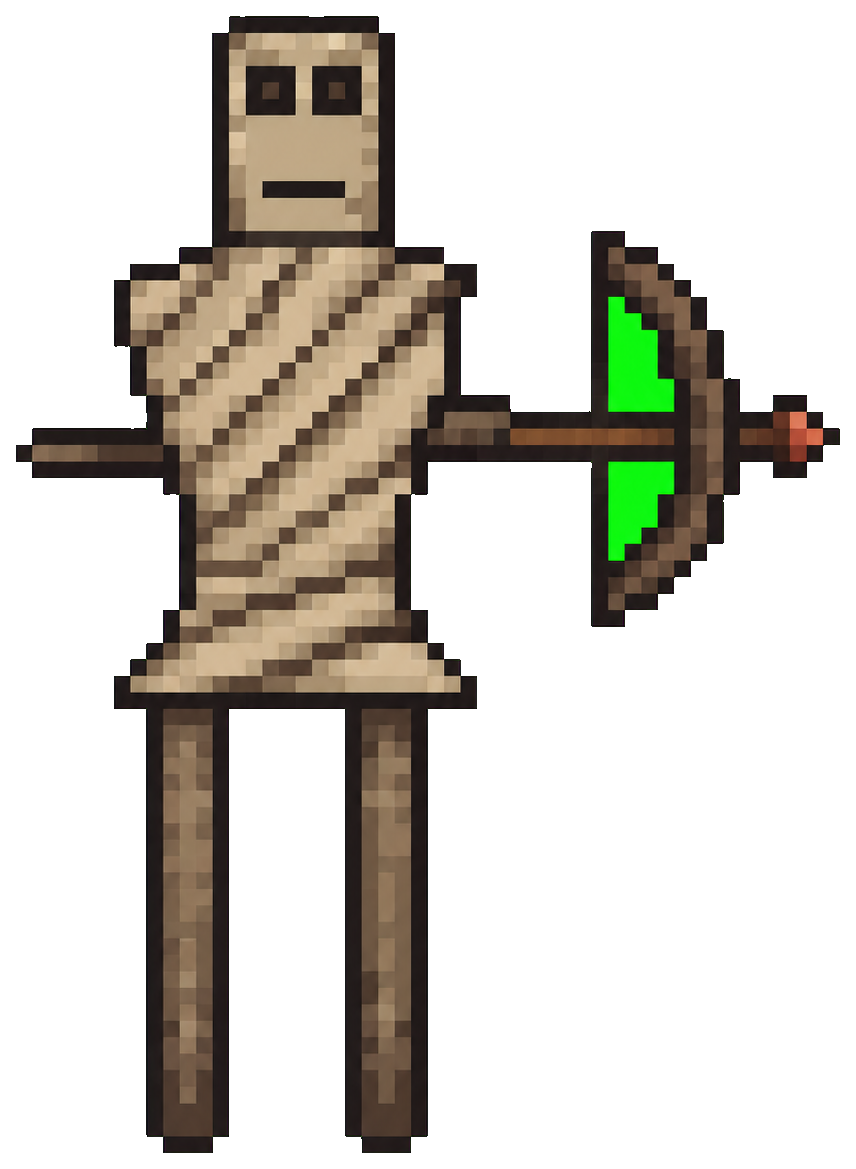
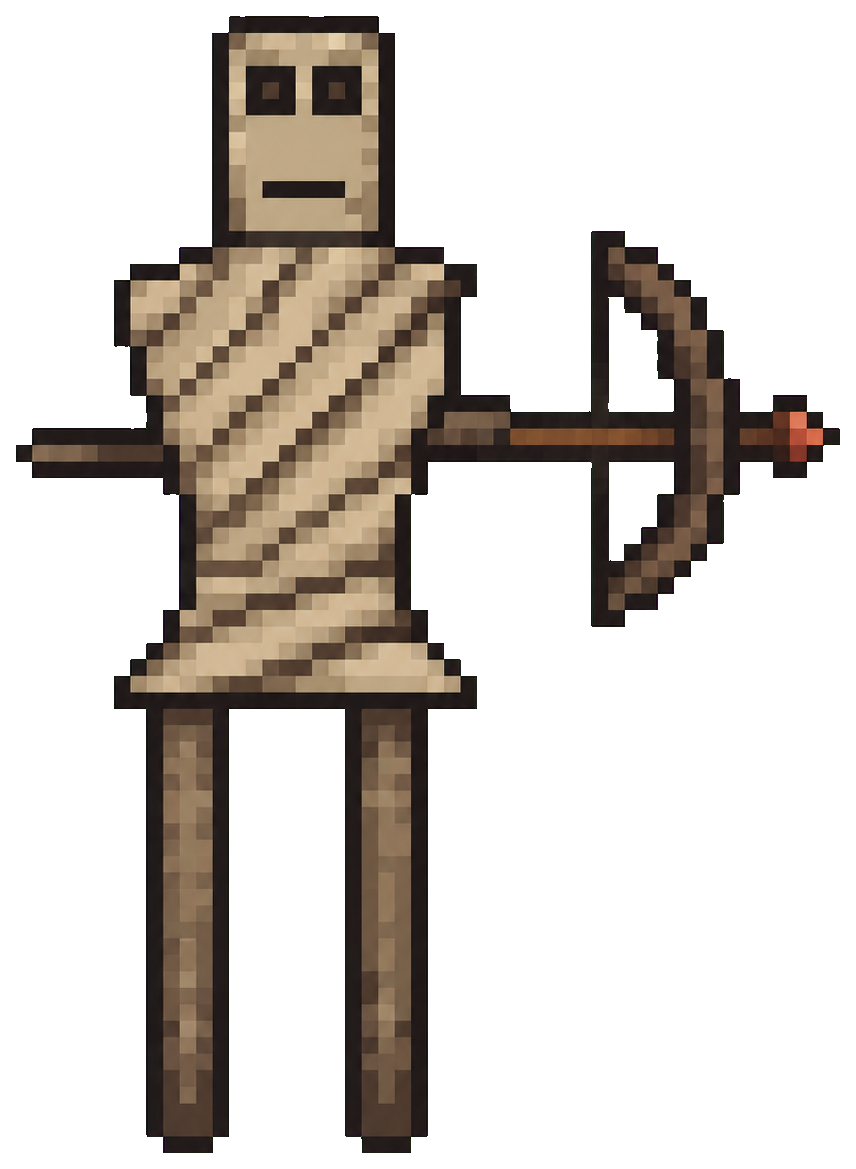
fix bowman greenscreen cleanup

Changed region(s): [[0.6986, 0.2464, 0.7897, 0.4927]]

diff --git a/scripts/prepare-bowman-asset.js b/scripts/prepare-bowman-asset.js
@@ -3,13 +3,21 @@
  *
  * Input/output are the same path. The script:
  * 1. Fully reads the PNG into memory first (safe when input === output).
- * 2. Samples the border to estimate the greenscreen key colour.
+ * 2. Samples the border to estimate the greenscreen key colour. If the border is
+ *    already transparent (re-running on a prepared asset), the greenscreen key is
+ *    instead derived from confidently-green opaque pixels still present in content.
  * 3. Flood-fills background from the outer perimeter to alpha=0.
- * 4. Applies a minimal local green-fringe decontamination on silhouette edges.
- * 5. Crops to the opaque content bbox + 16 px transparent padding (no resize).
- * 6. Writes RGBA PNG via a temp file, then atomically replaces the production asset.
+ * 4. Removes isolated greenscreen remnants trapped in enclosed regions the
+ *    perimeter flood-fill cannot reach (e.g. the openings of the bow between the
+ *    bow curve, string and arm). Only pixels confidently close to the greenscreen
+ *    key colour are removed, so real character/wood/string/bow colours survive.
+ * 5. Applies a minimal local green-fringe decontamination on silhouette edges and
+ *    around the newly-opened interior holes.
+ * 6. Crops to the opaque content bbox + 16 px transparent padding (no resize).
+ * 7. Writes RGBA PNG via a temp file, then atomically replaces the production asset.
  *
- * Re-running on the already-prepared RGBA result is idempotent.
+ * Re-running on the already-prepared RGBA result is idempotent: once the enclosed
+ * greenscreen is gone, no confident greenscreen pixels remain to key on.
  *
  * Alpha content threshold for crop: alpha > 4.
  * Padding: 16 px (clamped to canvas edges).
@@ -30,6 +38,15 @@ const KEY_DISTANCE_SQ = 70 * 70;
 const FRINGE_DOMINANCE = 12;
 const WHITE_MIN = 230;
 const WHITE_KEY_DISTANCE_SQ = 35 * 35;
+// Interior greenscreen removal (enclosed remnants the flood-fill cannot reach).
+// Deliberately stricter than the perimeter test so only confident, highly
+// saturated greenscreen is stripped and real image greens are preserved.
+const INNER_GREEN_DOMINANCE = 40;
+const INNER_GREEN_MIN = 120;
+const INNER_KEY_DISTANCE_SQ = 70 * 70;
+// Minimum confident-green opaque samples required to derive a key from content
+// when the perimeter is already transparent (re-run on a prepared asset).
+const DERIVE_MIN_SAMPLES = 40;
 
 function assert(condition, message) {
   if (!condition) throw new Error(message);
@@ -200,6 +217,80 @@ function sampleBackgroundKey(rgba, width, height) {
     };
   }
   return null;
+}
+
+// A pixel is confidently greenscreen when it is a highly saturated green that
+// sits close to the derived key colour. Used only for interior remnant removal.
+function isConfidentGreenscreen(r, g, b, key) {
+  if (!(g > r + INNER_GREEN_DOMINANCE && g > b + INNER_GREEN_DOMINANCE && g >= INNER_GREEN_MIN)) {
+    return false;
+  }
+  const dr = r - key.r;
+  const dg = g - key.g;
+  const db = b - key.b;
+  return (dr * dr + dg * dg + db * db) <= INNER_KEY_DISTANCE_SQ;
+}
+
+// Fallback key estimation for already-prepared assets whose border is transparent.
+// Averages confidently-green opaque pixels anywhere in the image. Returns null
+// once no such pixels remain, which keeps the pipeline idempotent.
+function deriveGreenKeyFromContent(rgba, width, height) {
+  let count = 0;
+  let sumR = 0;
+  let sumG = 0;
+  let sumB = 0;
+  for (let i = 0; i < width * height; i += 1) {
+    const o = i * 4;
+    if (rgba[o + 3] <= ALPHA_THRESHOLD) continue;
+    const r = rgba[o];
+    const g = rgba[o + 1];
+    const b = rgba[o + 2];
+    if (g > r + INNER_GREEN_DOMINANCE && g > b + INNER_GREEN_DOMINANCE && g >= INNER_GREEN_MIN) {
+      count += 1;
+      sumR += r;
+      sumG += g;
+      sumB += b;
+    }
+  }
+  if (count < DERIVE_MIN_SAMPLES) return null;
+  return {
+    kind: 'green',
+    r: Math.round(sumR / count),
+    g: Math.round(sumG / count),
+    b: Math.round(sumB / count),
+    samples: count,
+    derived: true
+  };
+}
+
+// Strips greenscreen pixels the perimeter flood-fill left behind (fully enclosed
+// interior regions such as the bow openings). Only confident greenscreen is
+// removed; the surrounding fringe is later cleaned by decontaminateFringe.
+function removeInteriorGreen(rgba, width, height, bg, key) {
+  let removed = 0;
+  let minX = width;
+  let minY = height;
+  let maxX = -1;
+  let maxY = -1;
+  for (let y = 0; y < height; y += 1) {
+    for (let x = 0; x < width; x += 1) {
+      const idx = y * width + x;
+      if (bg[idx]) continue;
+      const o = idx * 4;
+      if (rgba[o + 3] <= ALPHA_THRESHOLD) continue;
+      if (!isConfidentGreenscreen(rgba[o], rgba[o + 1], rgba[o + 2], key)) continue;
+      rgba[o + 3] = 0;
+      removed += 1;
+      if (x < minX) minX = x;
+      if (y < minY) minY = y;
+      if (x > maxX) maxX = x;
+      if (y > maxY) maxY = y;
+    }
+  }
+  return {
+    removed,
+    bbox: removed > 0 ? { minX, minY, maxX, maxY } : null
+  };
 }
 
 function isBackground(r, g, b, key) {
@@ -386,9 +477,14 @@ function prepareBowmanAsset() {
   const inputPath = TARGET_PATH;
   const source = readPng(inputPath);
   const rgba = toRgbaBuffer(source);
-  const key = sampleBackgroundKey(rgba, source.width, source.height);
+  // Prefer the perimeter key; fall back to content when the border is already
+  // transparent (re-running on a previously prepared asset).
+  const key = sampleBackgroundKey(rgba, source.width, source.height)
+    || deriveGreenKeyFromContent(rgba, source.width, source.height);
 
   let keyed = 0;
+  let interiorRemoved = 0;
+  let interiorBBox = null;
   let fringeTouched = 0;
   let usedKey = null;
 
@@ -396,6 +492,11 @@ function prepareBowmanAsset() {
     usedKey = key;
     const fill = floodFillBackground(rgba, source.width, source.height, key);
     keyed = fill.keyed;
+    if (key.kind === 'green') {
+      const interior = removeInteriorGreen(rgba, source.width, source.height, fill.bg, key);
+      interiorRemoved = interior.removed;
+      interiorBBox = interior.bbox;
+    }
     fringeTouched = decontaminateFringe(rgba, source.width, source.height, fill.bg, key);
   }
 
@@ -457,6 +558,8 @@ function prepareBowmanAsset() {
     sourceHeight: source.height,
     key: usedKey,
     keyed,
+    interiorRemoved,
+    interiorBBox,
     fringeTouched,
     alphaThreshold: ALPHA_THRESHOLD,
     padding: PADDING,
@@ -481,6 +584,8 @@ if (require.main === module) {
     source: `${result.sourceWidth}x${result.sourceHeight}`,
     key: result.key,
     keyed: result.keyed,
+    interiorRemoved: result.interiorRemoved,
+    interiorBBox: result.interiorBBox,
     fringeTouched: result.fringeTouched,
     content: `${result.contentBBox.contentWidth}x${result.contentBBox.contentHeight}`,
     contentBBox: {
@@ -502,8 +607,14 @@ if (require.main === module) {
 module.exports = {
   ALPHA_THRESHOLD,
   PADDING,
+  INNER_GREEN_DOMINANCE,
+  INNER_GREEN_MIN,
+  INNER_KEY_DISTANCE_SQ,
   TARGET_RELATIVE,
   prepareBowmanAsset,
+  deriveGreenKeyFromContent,
+  isConfidentGreenscreen,
+  toRgbaBuffer,
   readPng,
   findContentBBox
 };

diff --git a/scripts/test-bowman.js b/scripts/test-bowman.js
@@ -264,6 +264,107 @@ const TEX_H = 1169;
   assertEqual(maxX - minX + 1, CONTENT_W, 'content width');
   assertEqual(maxY - minY + 1, CONTENT_H, 'content height');
 
+  // Greenscreen remnant defect guard.
+  // Historically bright greenscreen (~14,245,16) survived inside the enclosed
+  // bow openings because the perimeter flood-fill could not reach them and they
+  // were fully opaque. Scan opaque content for confident bright-green pixels and
+  // reject any mass or connected remnant. A handful of isolated, low-saturation
+  // natural-green pixels from the artwork are tolerated; large or connected
+  // clusters of bright greenscreen are not.
+  {
+    const GREEN_REFERENCE = { r: 14, g: 245, b: 16 };
+    const DOMINANCE = prepare.INNER_GREEN_DOMINANCE;
+    const MIN_G = prepare.INNER_GREEN_MIN;
+    const DIST_SQ = prepare.INNER_KEY_DISTANCE_SQ;
+    const OPAQUE = 32;
+    const MAX_TOTAL = 24; // isolated natural pixels only
+    const MAX_COMPONENT = 12; // no mass / connected greenscreen remnant
+
+    const isBrightGreen = (o) => {
+      const r = pixels[o];
+      const g = pixels[o + 1];
+      const b = pixels[o + 2];
+      const a = pixels[o + 3];
+      if (a <= OPAQUE) return false;
+      if (!(g > r + DOMINANCE && g > b + DOMINANCE && g >= MIN_G)) return false;
+      const dr = r - GREEN_REFERENCE.r;
+      const dg = g - GREEN_REFERENCE.g;
+      const db = b - GREEN_REFERENCE.b;
+      return (dr * dr + dg * dg + db * db) <= DIST_SQ;
+    };
+
+    const visited = new Uint8Array(width * height);
+    let total = 0;
+    let largest = 0;
+    let largestBBox = null;
+    let overallMinX = width;
+    let overallMinY = height;
+    let overallMaxX = -1;
+    let overallMaxY = -1;
+
+    for (let y = 0; y < height; y += 1) {
+      for (let x = 0; x < width; x += 1) {
+        const idx = y * width + x;
+        if (visited[idx]) continue;
+        if (!isBrightGreen(idx * 4)) { visited[idx] = 1; continue; }
+        const stack = [idx];
+        visited[idx] = 1;
+        let size = 0;
+        let cMinX = x;
+        let cMinY = y;
+        let cMaxX = x;
+        let cMaxY = y;
+        while (stack.length) {
+          const cur = stack.pop();
+          const cx = cur % width;
+          const cy = (cur - cx) / width;
+          size += 1;
+          total += 1;
+          if (cx < cMinX) cMinX = cx;
+          if (cy < cMinY) cMinY = cy;
+          if (cx > cMaxX) cMaxX = cx;
+          if (cy > cMaxY) cMaxY = cy;
+          if (cx < overallMinX) overallMinX = cx;
+          if (cy < overallMinY) overallMinY = cy;
+          if (cx > overallMaxX) overallMaxX = cx;
+          if (cy > overallMaxY) overallMaxY = cy;
+          if (cx > 0 && !visited[cur - 1]) {
+            visited[cur - 1] = 1;
+            if (isBrightGreen((cur - 1) * 4)) stack.push(cur - 1);
+          }
+          if (cx + 1 < width && !visited[cur + 1]) {
+            visited[cur + 1] = 1;
+            if (isBrightGreen((cur + 1) * 4)) stack.push(cur + 1);
+          }
+          if (cy > 0 && !visited[cur - width]) {
+            visited[cur - width] = 1;
+            if (isBrightGreen((cur - width) * 4)) stack.push(cur - width);
+          }
+          if (cy + 1 < height && !visited[cur + width]) {
+            visited[cur + width] = 1;
+            if (isBrightGreen((cur + width) * 4)) stack.push(cur + width);
+          }
+        }
+        if (size > largest) {
+          largest = size;
+          largestBBox = { minX: cMinX, minY: cMinY, maxX: cMaxX, maxY: cMaxY };
+        }
+      }
+    }
+
+    if (total > MAX_TOTAL || largest > MAX_COMPONENT) {
+      const overallBBox = total > 0
+        ? { minX: overallMinX, minY: overallMinY, maxX: overallMaxX, maxY: overallMaxY }
+        : null;
+      throw new Error(
+        `Greenscreen remnant detected: total=${total} (max ${MAX_TOTAL}), `
+        + `largestComponent=${largest} (max ${MAX_COMPONENT}), `
+        + `largestBBox=${JSON.stringify(largestBBox)}, `
+        + `overallBBox=${JSON.stringify(overallBBox)}`
+      );
+    }
+  }
+
   const hashBefore = crypto.createHash('sha256').update(buffer).digest('hex');
   const first = prepare.prepareBowmanAsset();
   const second = prepare.prepareBowmanAsset();
@@ -271,6 +372,13 @@ const TEX_H = 1169;
   assertEqual(second.sha256, first.sha256, 'second hash');
   assertEqual(first.newWidth, TEX_W, 'idempotent w');
   assertEqual(first.newHeight, TEX_H, 'idempotent h');
+  assertEqual(second.newWidth, first.newWidth, 'two-run same width');
+  assertEqual(second.newHeight, first.newHeight, 'two-run same height');
+  assertEqual(
+    JSON.stringify(second.contentBBox),
+    JSON.stringify(first.contentBBox),
+    'two-run same content bbox'
+  );
 }
 
 // Runtime melee + persistence (no projectile / ranged)